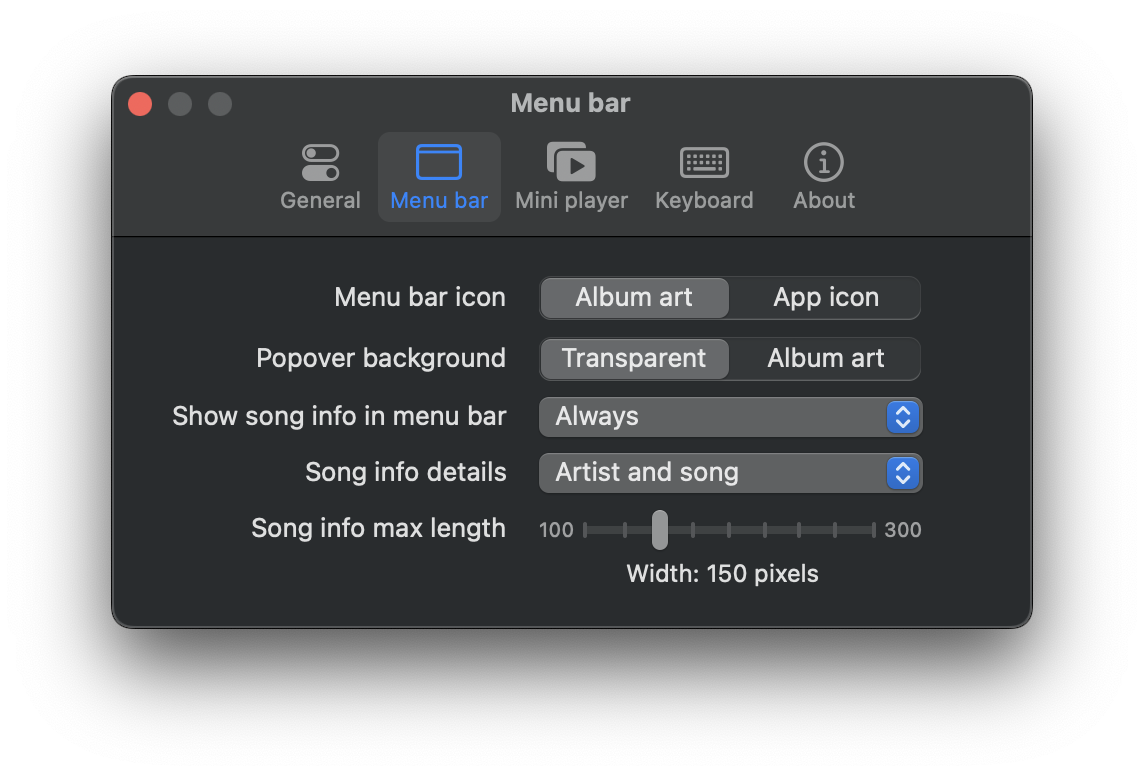
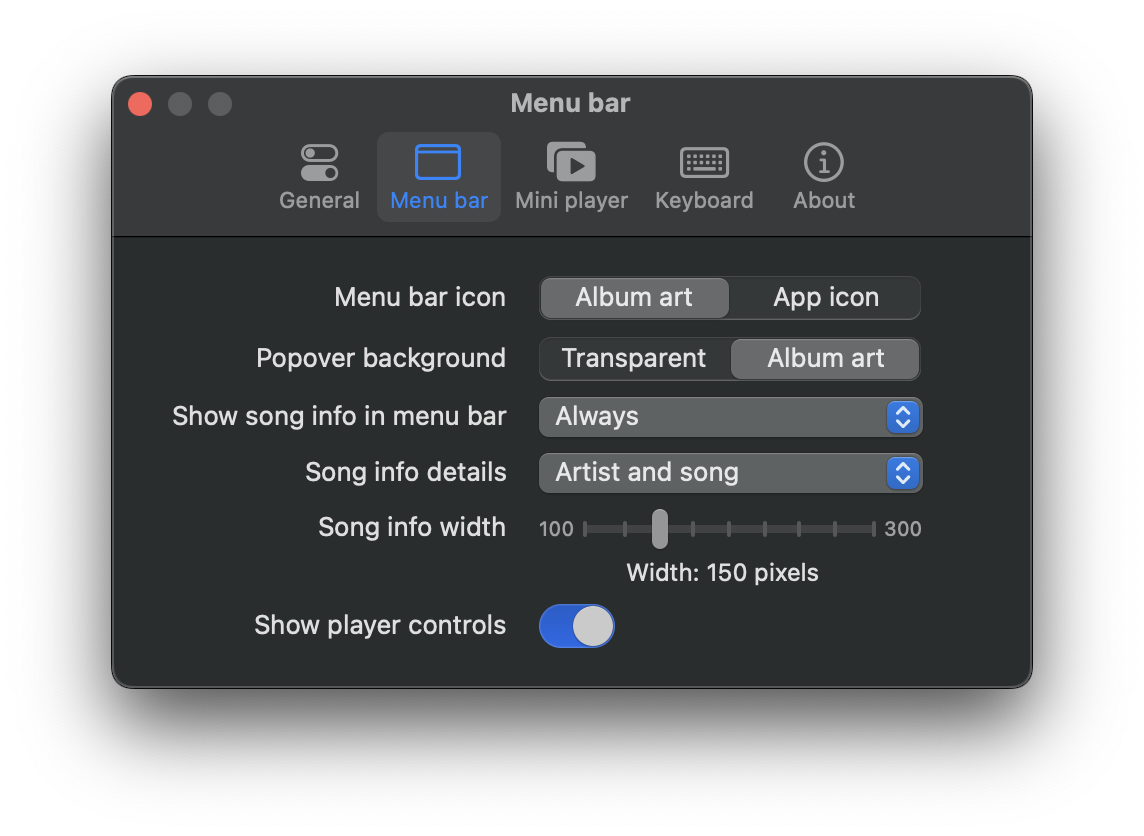
Updated release notes and readme

Changed region(s): [[0.0918, 0.0619, 0.9178, 0.7732], [0.0918, 0.8041, 0.9178, 0.8351]]

diff --git a/Tuneful/ViewModels/StatusBarItemManager.swift b/Tuneful/ViewModels/StatusBarItemManager.swift
@@ -27,9 +27,9 @@ class StatusBarItemManager: ObservableObject {
         }
         
         let titleWidth = title.stringWidth(with: Constants.StatusBar.marqueeFont)
-        let menuBarItemWidth = titleWidth == 0 ? Constants.StatusBar.imageWidth : (self.menuBarItemWidth > titleWidth ? titleWidth : self.menuBarItemWidth)
+        let menuBarItemWidth = titleWidth == 0 ? Constants.StatusBar.imageWidth : (self.menuBarItemWidth > titleWidth  ? titleWidth + 40 : self.menuBarItemWidth)
         let isItemBiggerThanLimit = Constants.StatusBar.imageWidth + title.stringWidth(with: Constants.StatusBar.marqueeFont) >= menuBarItemWidth
-        let xOffset = isItemBiggerThanLimit ? 10.0 : (self.menuBarItemWidth - Constants.StatusBar.imageWidth - title.stringWidth(with: Constants.StatusBar.marqueeFont)) / 2
+        let xOffset = isItemBiggerThanLimit ? 10.0 : (menuBarItemWidth - Constants.StatusBar.imageWidth - title.stringWidth(with: Constants.StatusBar.marqueeFont)) / 2
         
         let menuBarView = NSHostingView(rootView: menuBarIconView)
         menuBarView.frame = NSRect(x: xOffset, y: 1, width: menuBarItemWidth, height: 20)

diff --git a/release_notes.md b/release_notes.md
@@ -1,5 +1,5 @@
 # 1.5.0 - Playback controls in menu bar
-* New feature to directly show playback control buttons in menu bar
+* New feature to control playback by new menu bar control buttons
 * Ability to set behaviour of mini player window to act as a normal window
 * Menu bar item width now resizes when the song information is smaller than max width set in settings to avoid empty bezels on the sides
 
